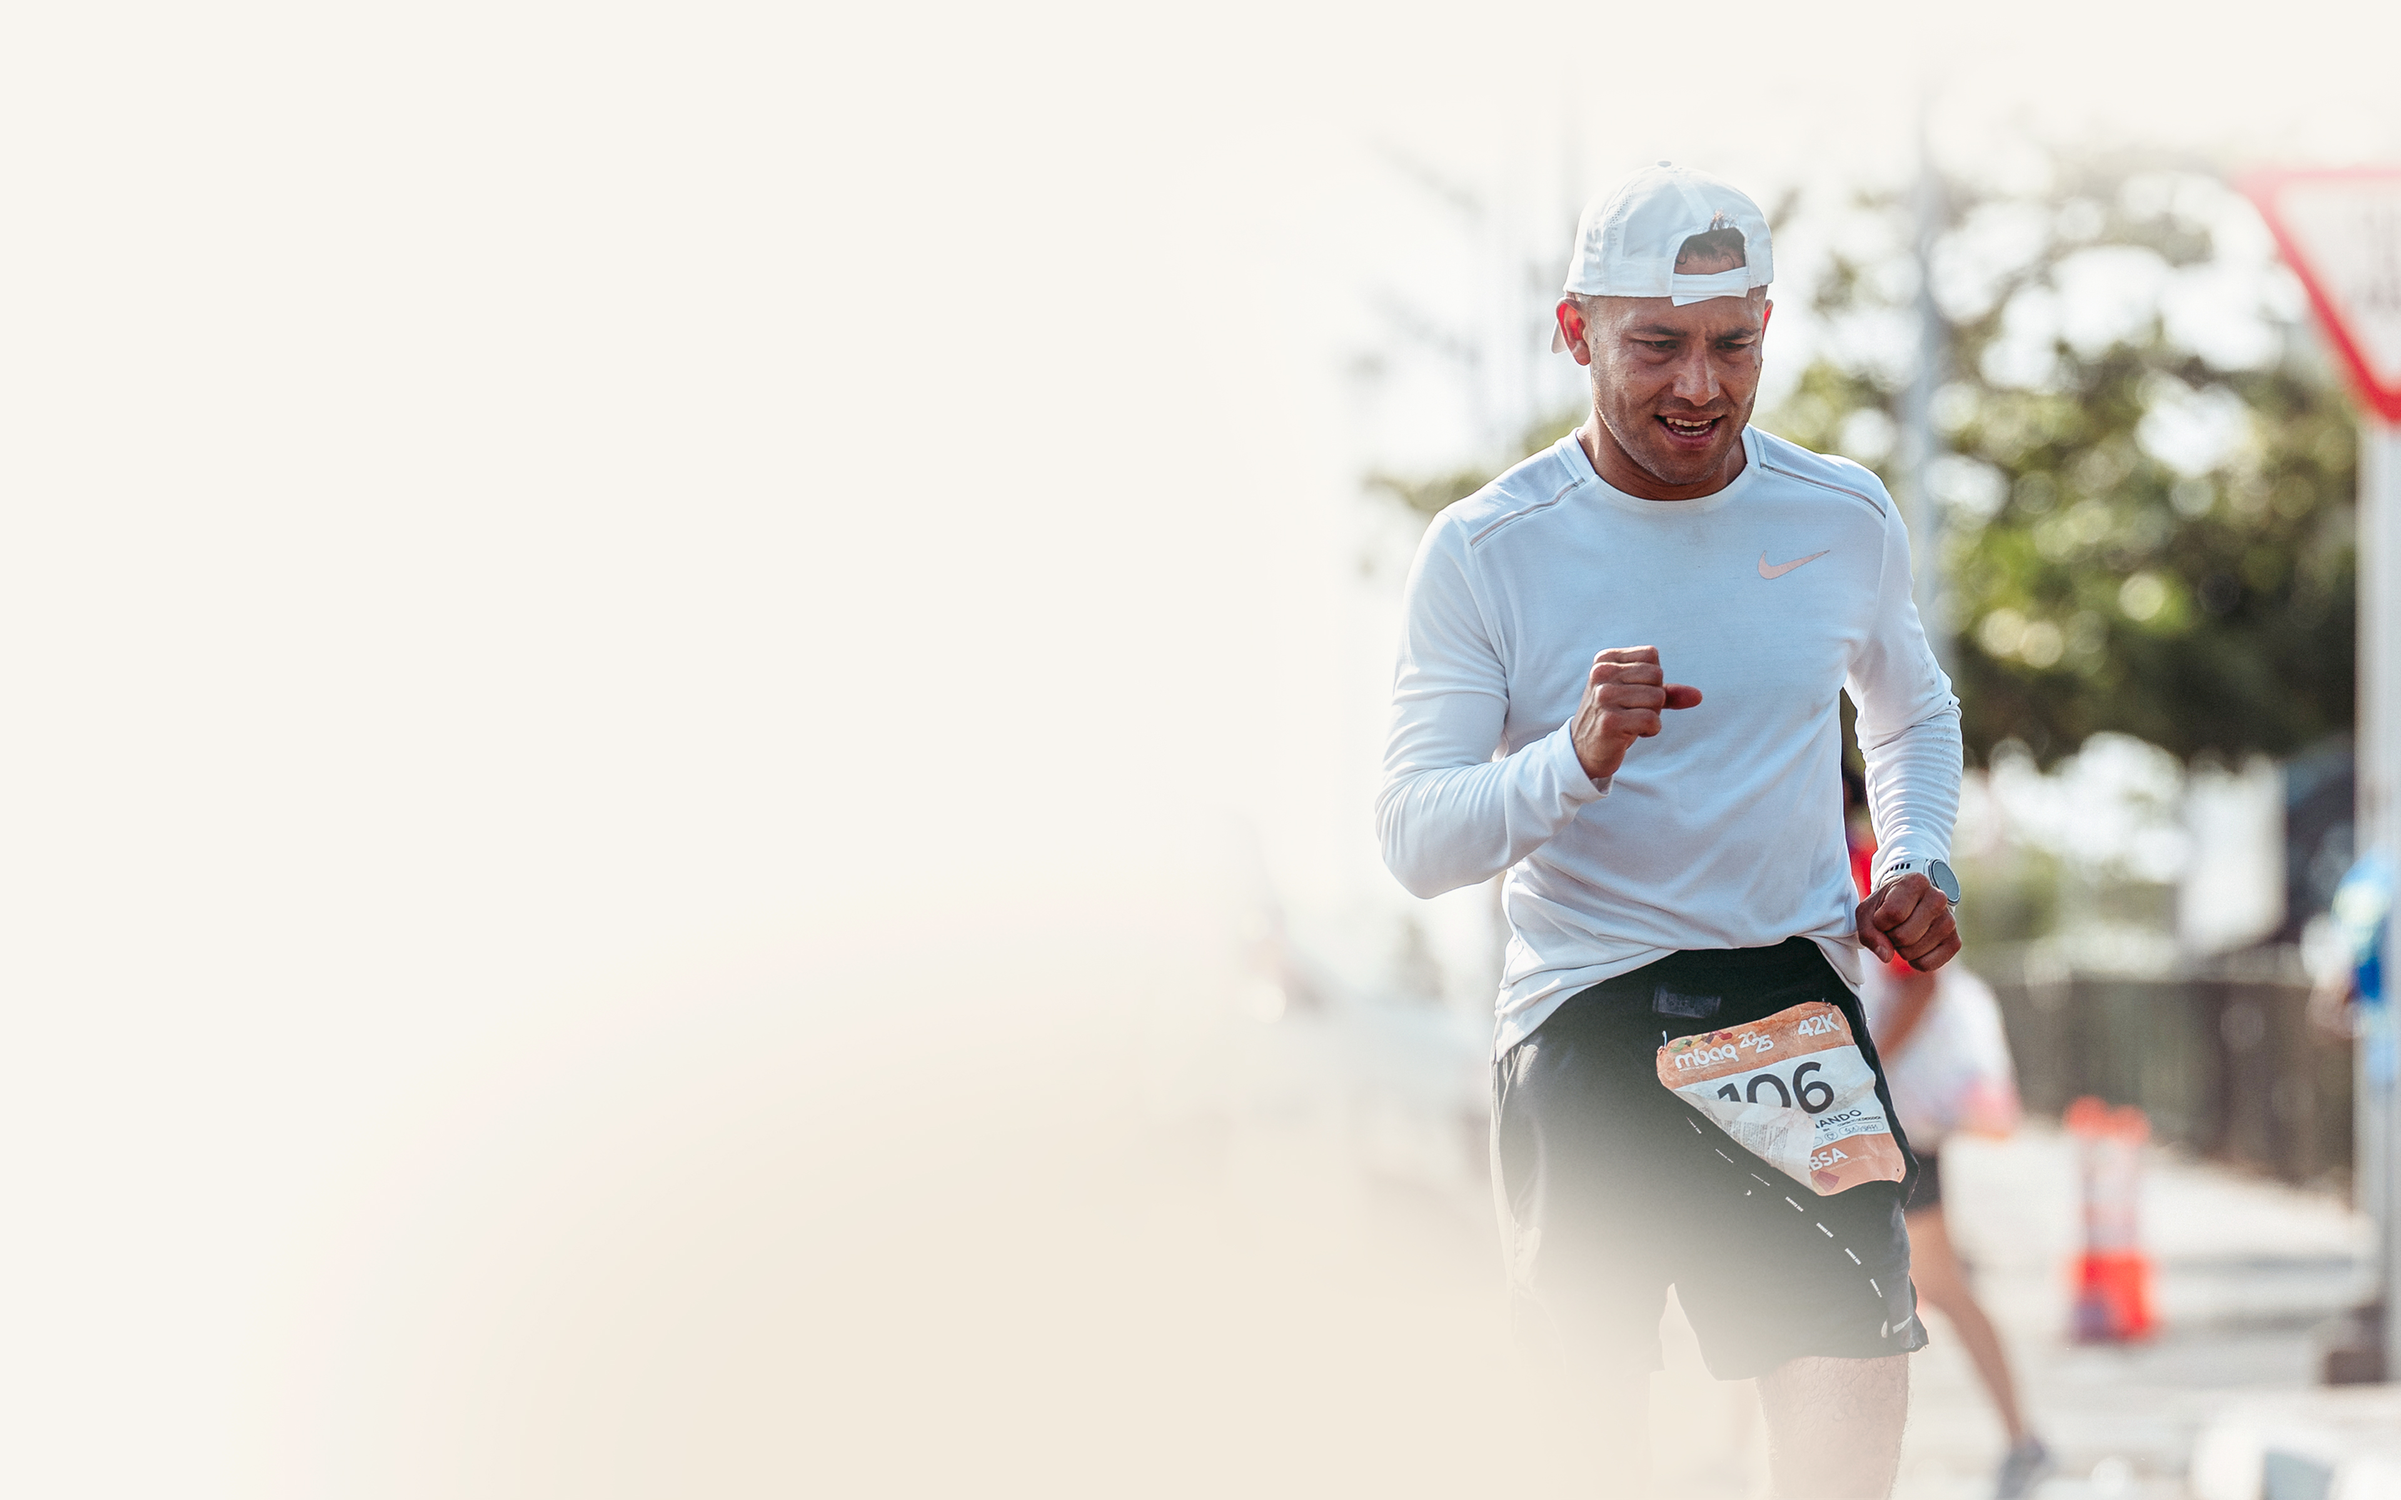
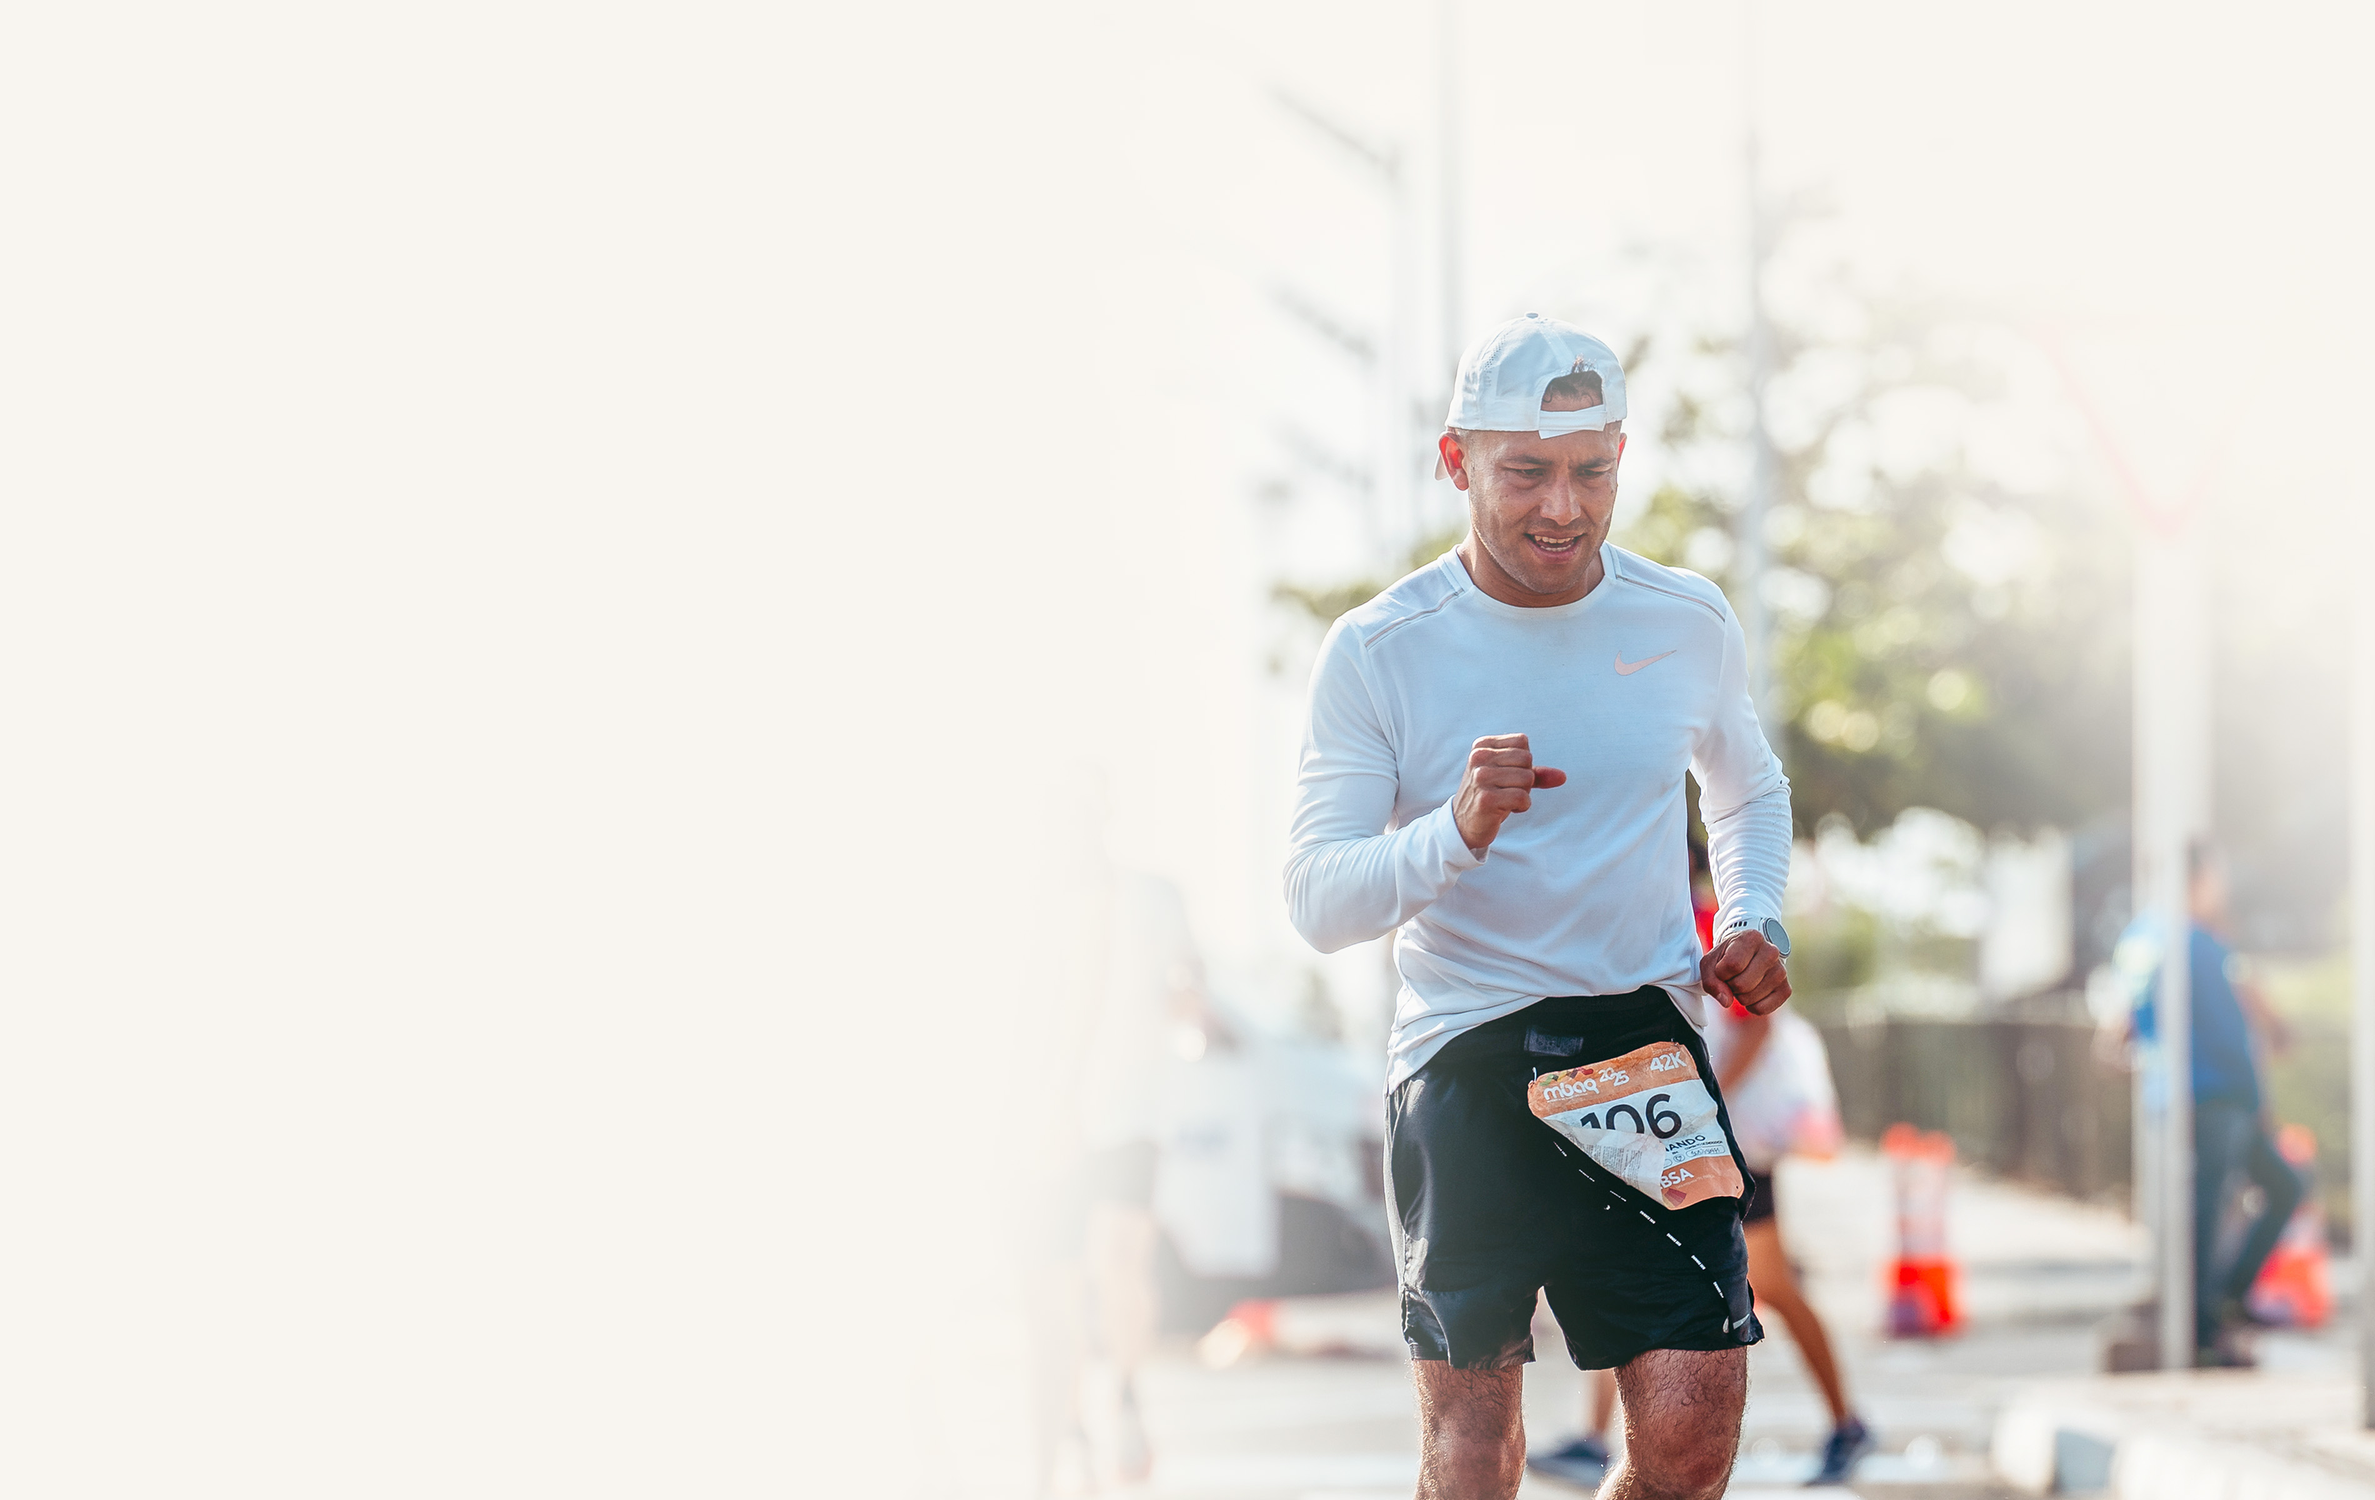
Hero image and mobile hero type added

diff --git a/app/globals.css b/app/globals.css
@@ -102,12 +102,19 @@ button {
 
 .wordmark {
   display: inline-flex;
-  align-items: baseline;
+  align-items: center;
   gap: var(--space-16);
   font-family: var(--font-display);
   letter-spacing: var(--tracking-wide);
   text-transform: uppercase;
   white-space: nowrap;
+}
+
+.wordmark__icon {
+  display: block;
+  width: 30px;
+  height: 30px;
+  flex-shrink: 0;
 }
 
 .wordmark em {
@@ -390,9 +397,9 @@ button {
   padding-inline: var(--gutter);
 }
 
-/* Same display voice as the dominios headline: weight 400, tight tracking. */
+/* Headline > kicker (display subhead) > body. Sizes live in typography tokens. */
 .hero__headline {
-  font-size: clamp(2.75rem, 0.65rem + 5.5vw, 5.5rem);
+  font-size: var(--text-hero);
   font-weight: 400;
   letter-spacing: -0.05em;
   line-height: 1;
@@ -418,7 +425,7 @@ button {
 
 .hero__kicker {
   font-family: var(--font-display);
-  font-size: clamp(1.375rem, 1.05rem + 1vw, 2rem);
+  font-size: var(--text-hero-kicker);
   font-weight: 400;
   line-height: var(--leading-snug);
   color: var(--color-ember);
@@ -427,7 +434,7 @@ button {
 
 .hero__subheadline {
   font-family: var(--font-body);
-  font-size: clamp(1.375rem, 1.2rem + 0.7vw, 1.75rem);
+  font-size: var(--text-hero-body);
   font-weight: 400;
   font-style: normal;
   line-height: var(--leading-body);
@@ -531,7 +538,7 @@ button {
   }
 
   .hero__headline {
-    font-size: clamp(2.35rem, 9vw, 3.25rem);
+    font-size: var(--text-hero-mobile);
   }
 
   /* Las veladuras giran con la composición: de arriba hacia abajo. */

diff --git a/styles/typography.css b/styles/typography.css
@@ -6,7 +6,12 @@
   --text-h3: clamp(1.25rem, 1.1rem + 0.7vw, 1.625rem);
   --text-display: clamp(1.875rem, 1.4rem + 2vw, 3rem);
   --text-museum: clamp(1.75rem, 1.2rem + 2.8vw, 3.375rem);
-  --text-hero: clamp(2.125rem, 1.5rem + 2.9vw, 3.25rem);
+  /* Hero ramp: headline > kicker (subhead) > body at every viewport.
+     Kicker min stays above body max so the scale cannot invert on mobile. */
+  --text-hero: clamp(2.75rem, 0.65rem + 5.5vw, 5.5rem);
+  --text-hero-mobile: clamp(2.35rem, 9vw, 3.25rem);
+  --text-hero-kicker: clamp(1.75rem, 1.4rem + 1.2vw, 2rem);
+  --text-hero-body: clamp(1.1875rem, 1.08rem + 0.5vw, 1.4375rem);
   --text-chamber: clamp(2.25rem, 1.5rem + 3.4vw, 4.25rem);
 
   --leading-tight: 1.12;

diff --git a/components/ui/BrandWordmark.js b/components/ui/BrandWordmark.js
@@ -1,6 +1,22 @@
-export default function BrandWordmark({ as: Comp = "span", className }) {
+import Image from "next/image";
+import brandIcon from "@/app/icon.svg";
+
+export default function BrandWordmark({
+  as: Comp = "span",
+  className,
+  priority = false,
+}) {
   return (
     <Comp className={className}>
+      <Image
+        src={brandIcon}
+        alt=""
+        width={30}
+        height={30}
+        className="wordmark__icon"
+        unoptimized
+        priority={priority}
+      />
       i . a m<em>   F é n i x</em>
     </Comp>
   );

diff --git a/components/layout/Header.js b/components/layout/Header.js
@@ -26,7 +26,7 @@ export default function Header() {
     <header className={headerClass}>
       <div className="site-header__inner">
         <a href="/#top" className="site-header__logo" aria-label="i.am Fénix — inicio">
-          <BrandWordmark className="wordmark site-header__wordmark" />
+          <BrandWordmark className="wordmark site-header__wordmark" priority />
         </a>
 
         <nav className="site-header__nav" aria-label="Navegación principal">

diff --git a/components/hero/Hero.js b/components/hero/Hero.js
@@ -68,7 +68,10 @@ export default function Hero() {
           alt=""
           fill
           priority
-          sizes="100vw"
+          quality={90}
+          /* Mobile: cover escala por el alto, no por 100vw. 200vw pide un src
+             lo bastante alto para no estirar el JPEG en pantallas 2x/3x. */
+          sizes="(max-width: 768px) 200vw, 120vw"
           className="hero__figure-image"
         />
       </div>

diff --git a/styles/animations.css b/styles/animations.css
@@ -46,7 +46,7 @@
 @media (max-width: 768px) {
   :root {
     --hero-figure-position: 60% 28%;
-    --hero-figure-scale: 1.2;
+    --hero-figure-scale: 1;
     --hero-blueprint-opacity: 0.1;
     --hero-veil-parchment-reach: 48%;
     --hero-veil-chalk-opacity: 0.38;

diff --git a/next.config.js b/next.config.js
@@ -1,6 +1,9 @@
 /** @type {import('next').NextConfig} */
 const nextConfig = {
   devIndicators: false,
+  images: {
+    qualities: [75, 90],
+  },
 };
 
 module.exports = nextConfig;
